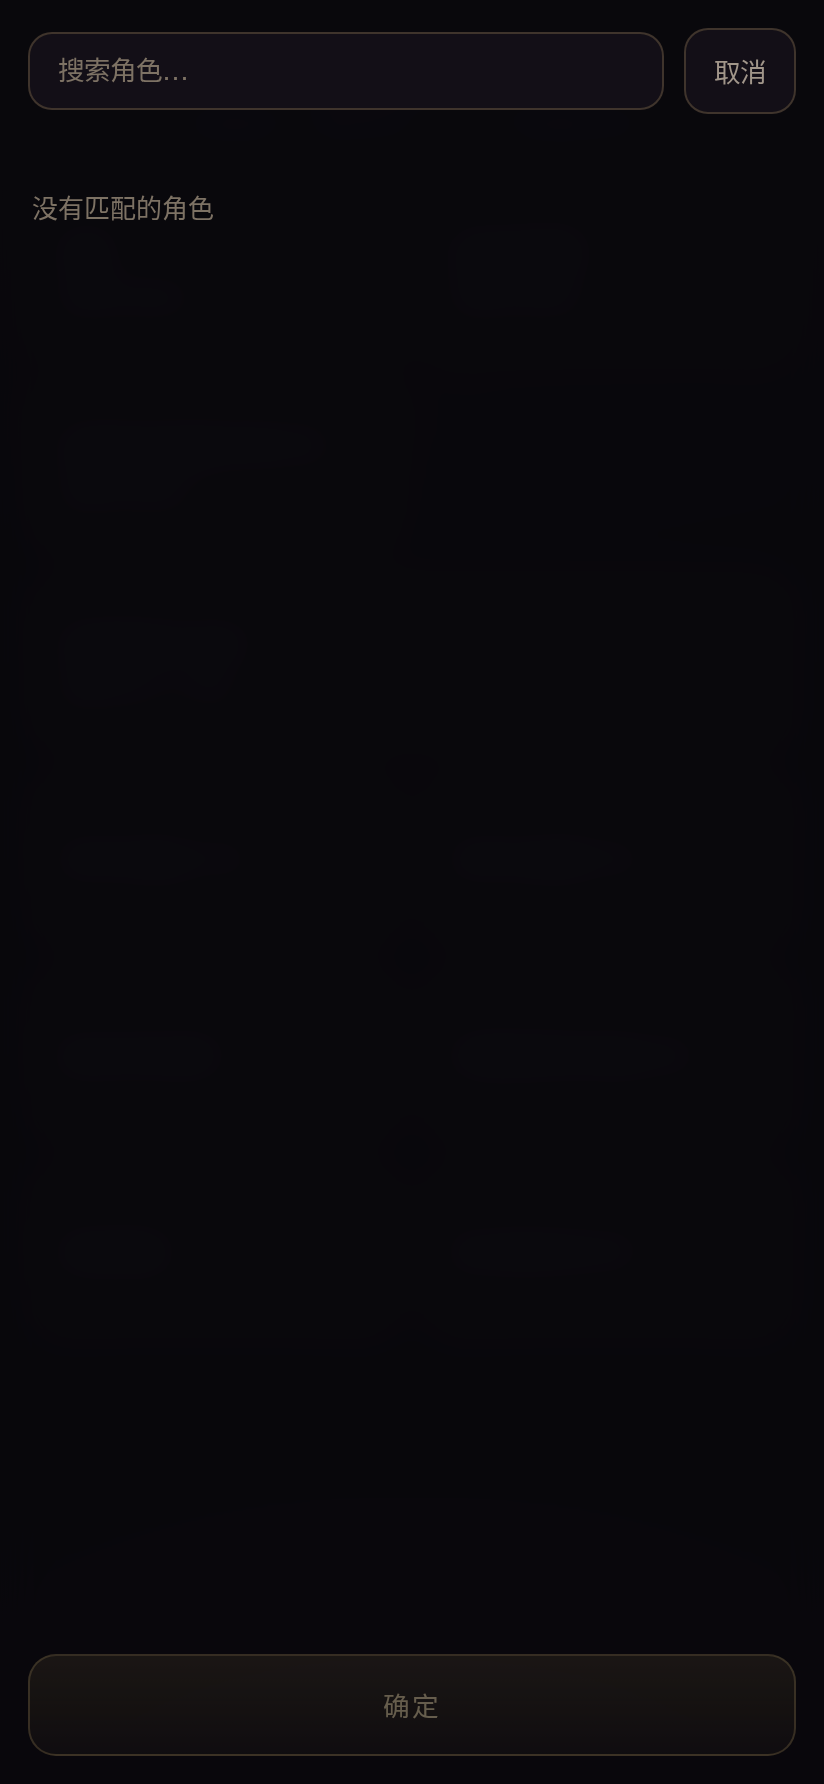
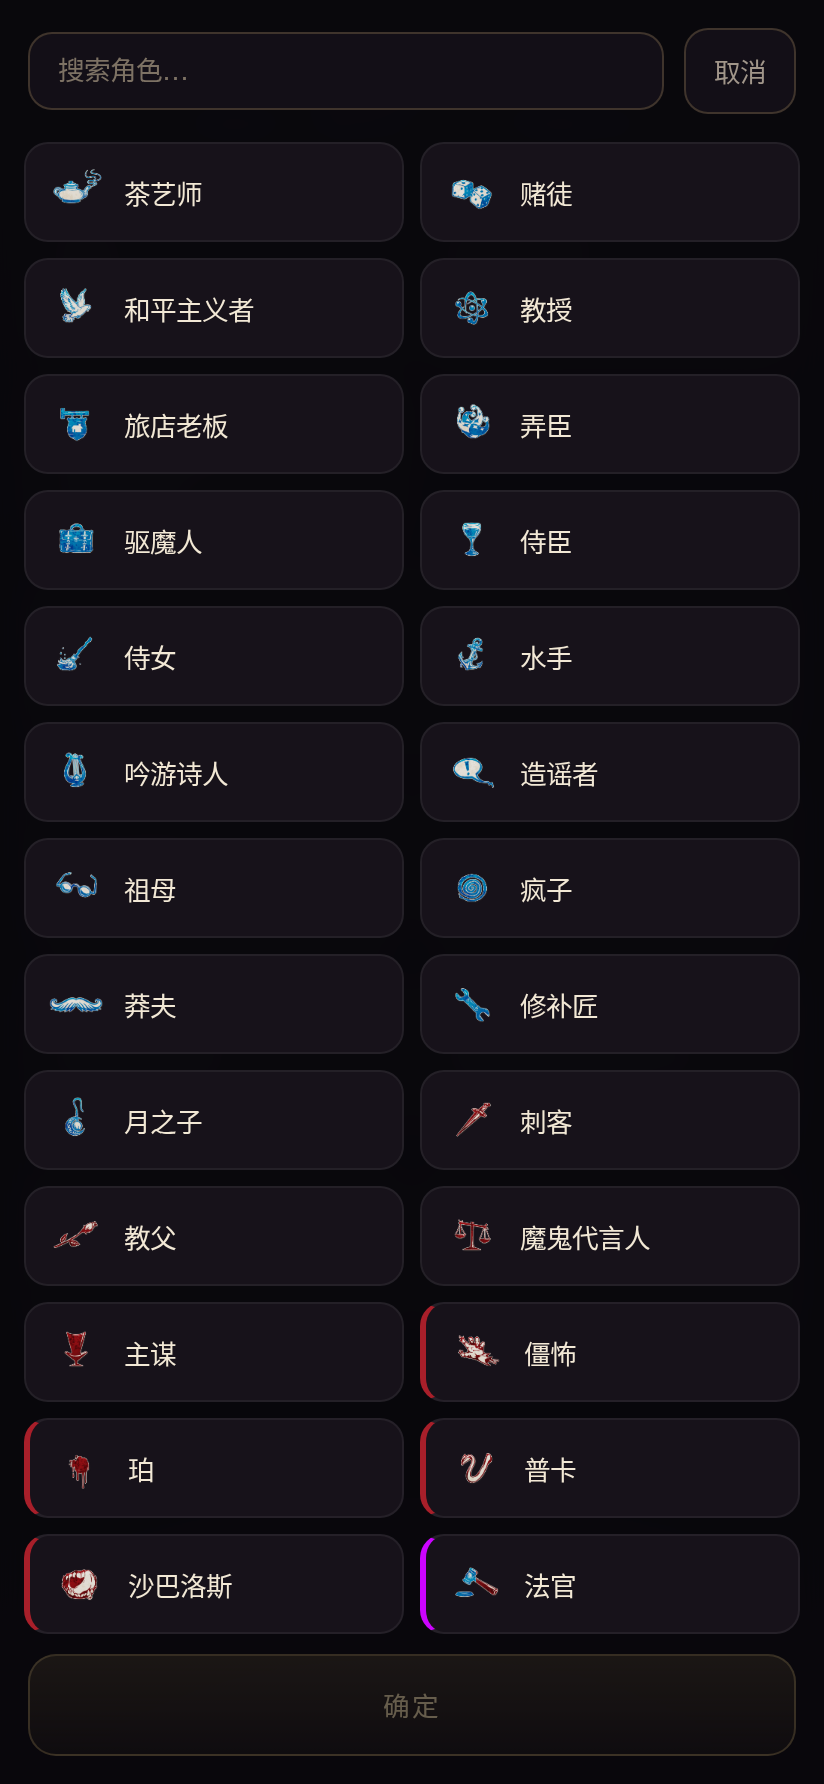
feat: 补回《无上愉悦》《窃窃私语》两个剧本；提示工具按魔典当前角色池筛选

diff --git a/public/gs-bridge.js b/public/gs-bridge.js
@@ -169,8 +169,20 @@
       } catch (e) {
         custom = [];
       }
+      /* 以魔典当前的角色池为准（内置剧本、自制剧本都适用） */
+      var ids = [];
+      try {
+        var pool = st.state.roles;
+        if (pool && typeof pool.forEach === 'function') {
+          pool.forEach(function (r, k) { ids.push(r && r.id ? r.id : k); });
+        }
+      } catch (e) {
+        ids = [];
+      }
+      if (!ids.length && custom.length) ids = custom;
+
       var q = [];
-      if (custom.length) q.push('roles=' + encodeURIComponent(custom.join(',')));
+      if (ids.length) q.push('roles=' + encodeURIComponent(ids.join(',')));
       else if (ed.id && ed.id !== 'custom') q.push('edition=' + encodeURIComponent(ed.id));
       if (ed.name) q.push('name=' + encodeURIComponent(ed.name));
       return q.length ? ('?' + q.join('&')) : '';
